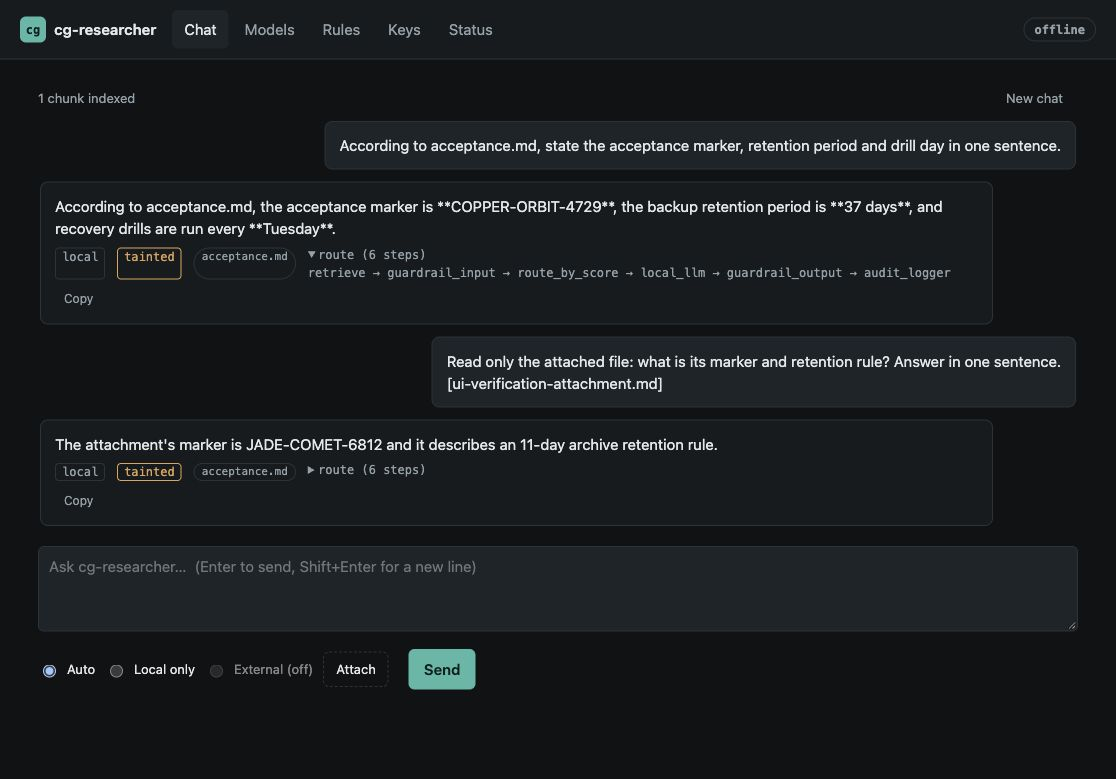
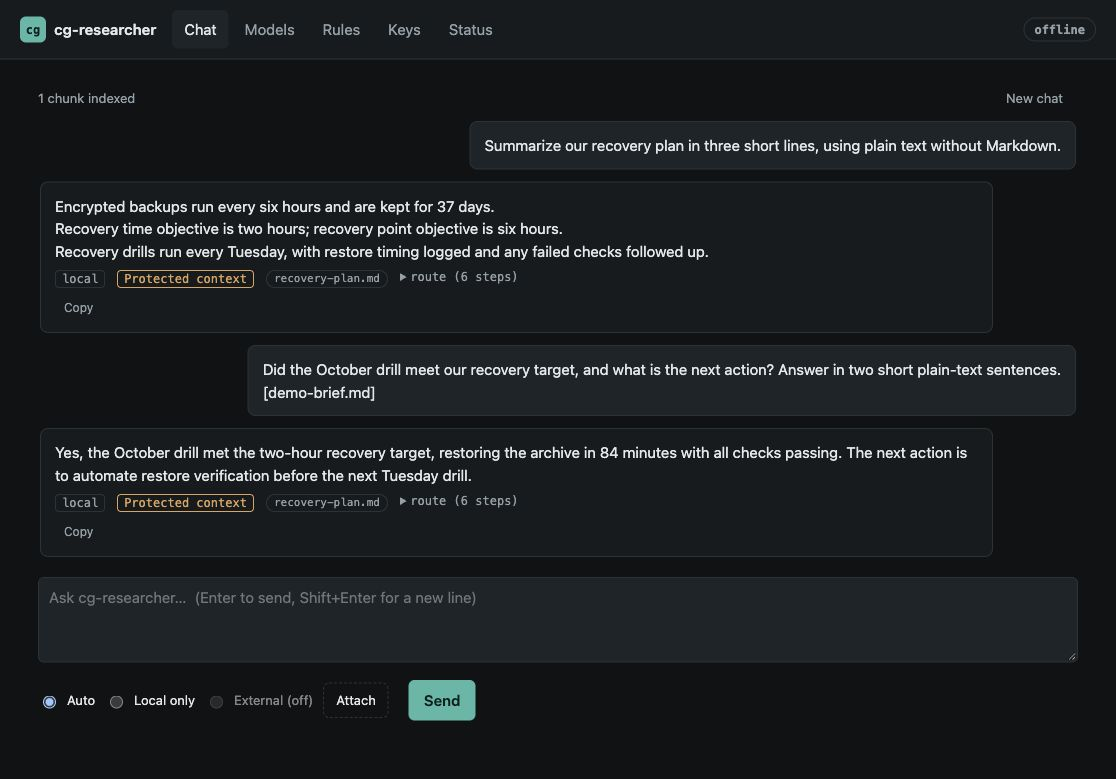
docs: refresh live screenshots with protected context copy

diff --git a/docs/screenshots/README.md b/docs/screenshots/README.md
@@ -1,37 +1,37 @@
 # Browser verification screenshots
 
 Captured on macOS with Computer Use on 2026-10-24 from PR #31 source
-`c7b00b8964e5150485a87d334813711438a224e5`, including main's merged write
+`d6c9d6dfad17aeab4ad01a531f9e854427214b65`, including main's merged write
 approval fix (#26). These are actual browser captures, using a disposable
 application home and synthetic corpus/attachment data. No screenshot contains
 an API key, pairing fragment, or real user document.
 
 The branch-specific debug binary was built with pinned Rust 1.99.1 using
 `cargo build --locked -p cg-researcher`. Its SHA-256 was
[2 lines of base64/hex data omitted]
 The gallery commit changes documentation only; it does not change that binary's
-production source. The browser used loopback port 19038; generation used real
+production source. The browser used loopback port 19107; generation used real
 Ollama at `http://127.0.0.1:11434/v1`, model `qwen3.8:27b-mlx-cg`
[1 lines of base64/hex data omitted]
 
-A subsequent review fix maps wildcard bind addresses to loopback for launcher
+The included review fix maps wildcard bind addresses to loopback for launcher
 connections (`ui` and `app`), without changing the server bind or egress policy.
 Before the fix, an actual `ui --print` invocation with an explicitly permitted
 `0.0.0.0` configuration failed with `scheme http not allowed`. After rebuilding,
 the same command succeeded against the disposable loopback server and the browser
 completed pairing and scrubbed the fragment. A focused regression covers IPv4/IPv6
-wildcards, preservation of specific addresses, and invalid input. The seven images
-remain captures of the source revision above; they were not recaptured after this
-launcher-only change.
+wildcards, preservation of specific addresses, and invalid input. All seven images were retaken after the launcher fix and the requested label change.
 
 ## Gallery
 
-### 1. Real corpus answer and taint propagation
+### 1. Real corpus answer with protected context
 
-The answer correctly returns COPPER-ORBIT-4729, 37 days, and Tuesday from the
-synthetic corpus. The source, taint marker, and expanded execution route are visible.
+The answer summarizes the synthetic recovery plan: six-hour backup cadence,
+37-day retention, two-hour recovery target and Tuesday drills. The source and
+Protected context badge are visible. Its tooltip explains that automatic write
+approval is disabled. The internal API field and security policy are unchanged.
 
-![Real local Qwen answer with corpus source and taint marker](01-live-qwen-chat.png)
+![Real local Qwen answer with corpus source and Protected context badge](01-live-qwen-chat.png)
 
 ### 2. Model configuration and live autotune
 
@@ -60,15 +60,16 @@ remain unconfigured. Real key storage/deletion was not exercised.
 
 The actual Ollama endpoint is reachable, one chunk is indexed, no external client
 is constructed, HTTP write approval is disabled, and the audit chain verifies
-with 10 records at this check.
+with 17 records at this check.
 
 ![Health, closed write approval, graph and verified audit chain](05-status-audit.png)
 
 ### 6. Actual file attachment
 
 A synthetic Markdown file was selected through the browser's file chooser. Real
-Qwen returns its distinct marker JADE-COMET-6812 and 11-day retention rule,
-demonstrating that the answer uses the attachment rather than repeating corpus facts.
+Qwen correctly reports the 84-minute restore from the October review brief and
+its next action: automate restore verification before the next Tuesday drill.
+Those details appear only in the attachment, not the indexed recovery plan.
 
 ![Real Qwen reads the synthetic Markdown attachment](06-attachment-answer.png)
 
@@ -84,14 +85,15 @@ manually altered browser session or fixture response.
 
 | Path | Evidence and result |
 | --- | --- |
-| Current-head build and pairing | Rust 1.99.1 build passed; `cargo test --locked -p cg-researcher pairing`: 2 passed, including proof/challenge rejection and single-use session compatibility. |
-| Real provider and retrieval | Current-head init/index/serve/ui, corpus answer, attachment answer, autotune, rules save, invalid-key rejection, audit verification and restart invalidation passed through actual code/browser paths. |
+| Source and pairing verification | Rust 1.99.1 build, scoped clippy, formatting and JavaScript syntax checks passed at the gallery source. Earlier `cargo test --locked -p cg-researcher pairing` at c7b00b8: 2 passed. The label-only change leaves that policy code unchanged. |
+| Real provider and retrieval | Gallery-source init/index/serve/ui, corpus answer, attachment answer, autotune, rules save, invalid-key rejection, audit verification and restart invalidation passed through actual code/browser paths. |
+| Protected context copy | Real browser answer shows the badge and expected tooltip; actual CLI chat shows `protected context`. The existing browser regression now checks this copy; hosted execution remains blocked. |
 | Earlier candidate UI controls | At `40e5f3a`, model validation, provider selection, applying/restoring temperature, policy tightening, cancelling/accepting policy relaxation, status refresh/reindex, copying an answer and New chat were exercised. These earlier checks are not relabeled as reruns at the latest head. |
 | Earlier security probes | Fake-listener rejection without transmitting the permanent key, IPv6 pairing, and 401/421/403 authentication/Host/Origin probes passed. See the PR for exact scoped test commands and revisions. |
 | Retrieval limitation | `all-minilm` was absent (404). Indexing produced one chunk and zero embeddings; successful answers used keyword-only retrieval. Semantic retrieval remains unverified. |
 | Web search | In a separate disposable home, both the production connector and real Qwen tool call reached Google's CAPTCHA/consent refusal. The UI reported `web_search:error`; successful search results were not verified. SerpAPI credentials were absent. |
 | Native/package distinction | Earlier native Safari verification used a mock model. These screenshots show the in-app browser with real Ollama; they do not prove packaged `.app` or native WebView acceptance. |
-| Hosted CI | At `c7b00b8`, jobs failed/cancelled/skipped without execution. Workflow-lint annotations state that account payments/spending limits prevented jobs starting. This is not passing CI. |
+| Hosted CI | During this refresh, all six PRs had failed/cancelled/skipped jobs without execution. Workflow-lint annotations state that account payments/spending limits prevented jobs starting. This is not passing CI. |
 
 Live Anthropic/xAI, authenticated Gmail/Calendar/Telegram/SMS/1Password,
 external write effects, vision inference, real Keychain mutation, launchd,

diff --git a/docs/user-guide.md b/docs/user-guide.md
@@ -39,6 +39,8 @@ attachments to reach a model, set `llm.vision_model` (default `gemma4-26b-a4b:ud
   and New chat (clears the page only; nothing is stored). Status → Reindex corpus does the same as
   `cg-researcher index` without leaving the browser. If the server restarts, the page says "Session
   ended"; run `cg-researcher ui` again.
+  The "Protected context" badge means additional safeguards apply and automatic write approval
+  is disabled. CLI chat uses the same wording; the underlying policy is unchanged.
 - `cg-researcher index`: re-run after adding or changing files, or after changing `embed_model`. A running server
   picks up the new index without a restart. The UI button calls `POST /api/reindex` (authenticated).
 - HTTP: `POST 127.0.0.1:8797/query` with `Authorization: Bearer $(cat ~/.cg-researcher/secrets/api.key)`.
